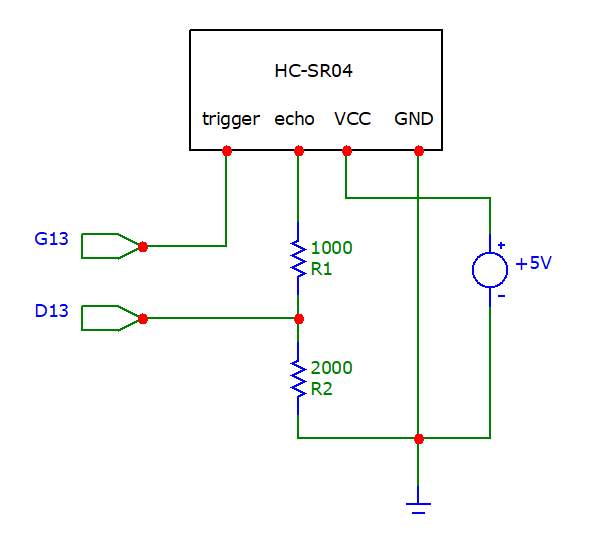
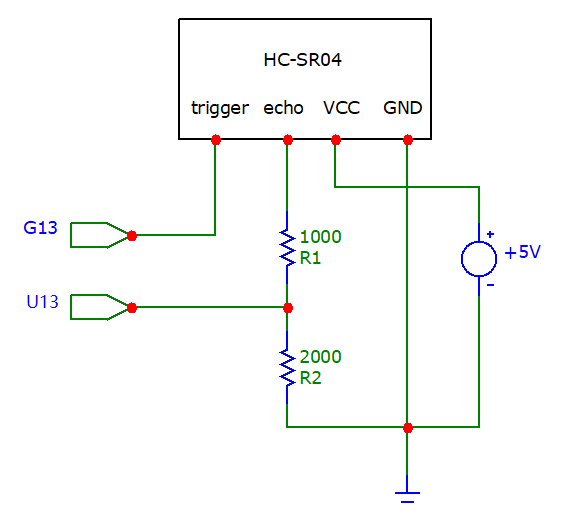
de1

Changed region(s): [[0.0309, 0.0301, 0.9262, 0.9642], [0.4322, 0.0904, 0.5866, 0.1507]]

diff --git a/Labs/projekt/README.md b/Labs/projekt/README.md
@@ -71,16 +71,17 @@
 | Pin 10 | K16 | J15 | U13 | G2 |
 
 #### Sensor HC-SR04 connection table
-| **Sensor HC - SR04** | **Board - JA_pmod** |
+| **Sensor HC - SR04** | **Board - pmod** |
 | :-: | :-: | 
 | Trig | PIN1 - G13 |
-| Echo | PIN7 - D13 |
+| Echo | PIN1 - U12 |
 | VCC | PIN6 -  VCC |
 | GND | PIN5 - GND |
 
 #### Buzzer connection table
-| **Buzzer** | **Board - JA_pmod** |
-| :-: | :-: | 
+| **Buzzer** | **Board - pmod** |
+| :-: | :-: |
+|Sound| PIN2 - B11 | 
 | VCC | PIN12 - VCC |
 | GND | PIN11 - GND |
 
@@ -387,7 +388,7 @@ end Behavioral;
 This module is...
 
 #### Table of LED light diodes
-|  Rozsah[Cm]  |  LED  |
+|  Range[Cm]  |  LED  |
 | :-: | :-: |
 | 0 - 20 | 11111 | 
 | 20 - 40 | 11110 |
